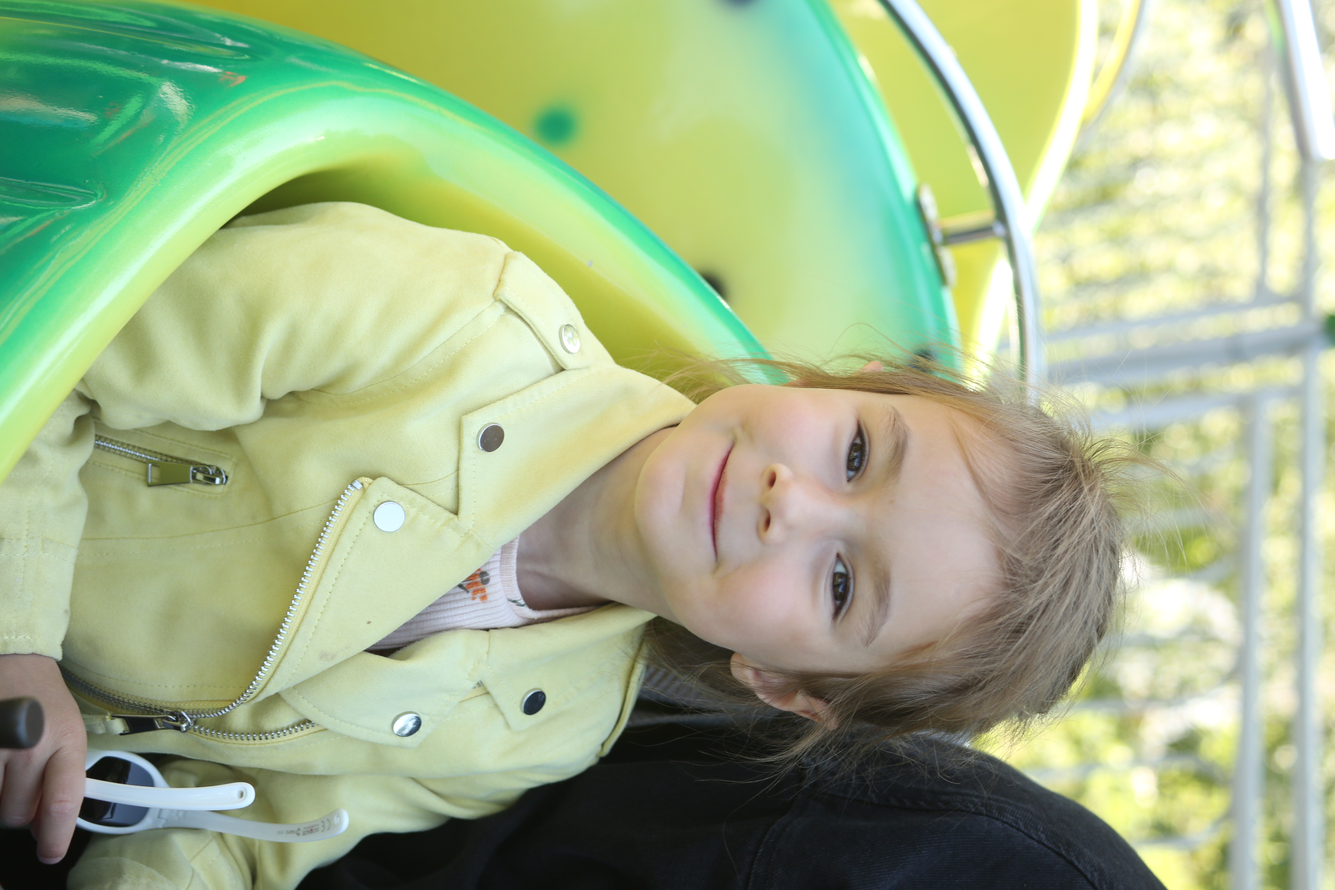
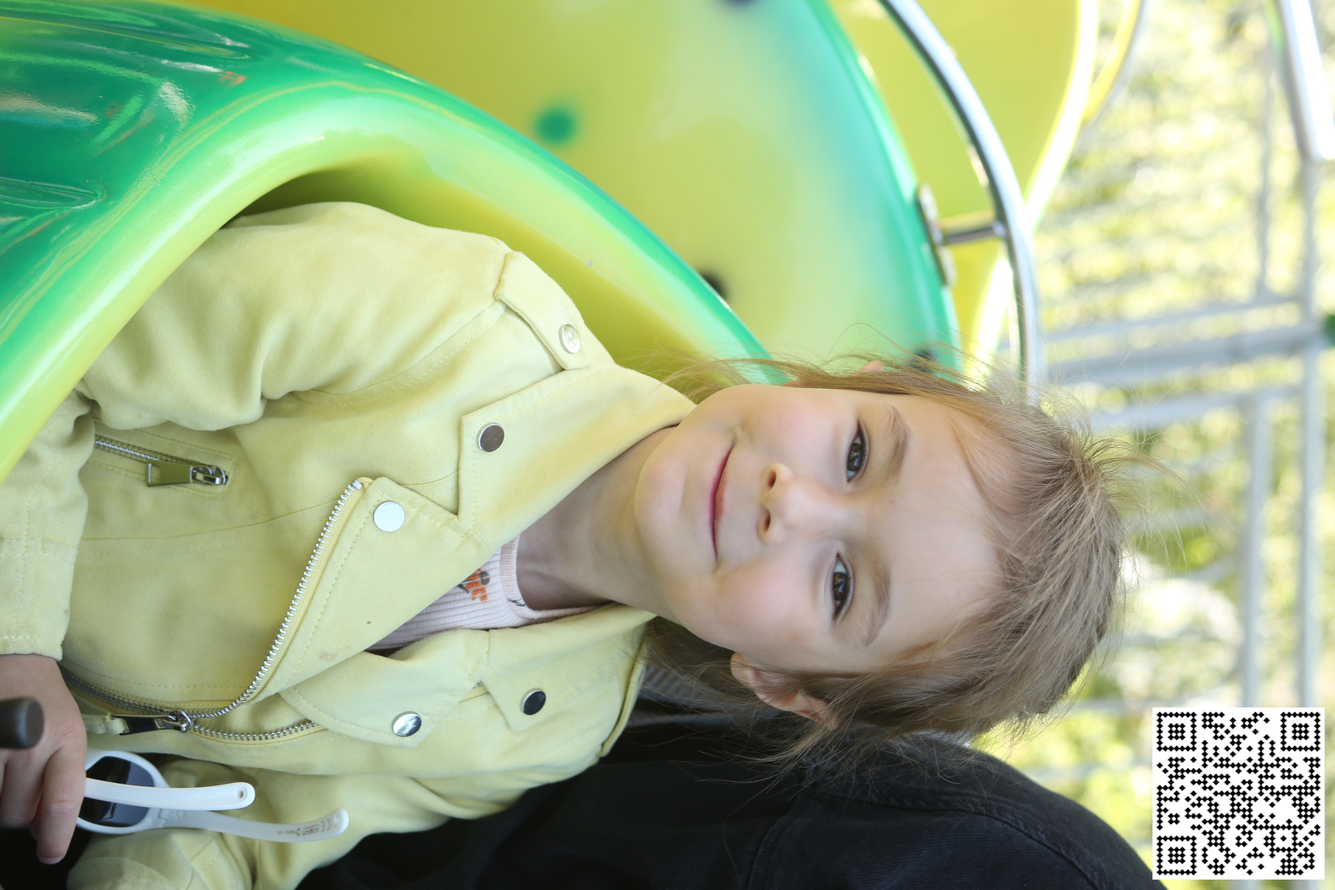
folder

Changed region(s): [[0.8438, 0.7812, 1.0, 1.0]]

diff --git a/source/Application.cpp b/source/Application.cpp
@@ -108,6 +108,38 @@ PrintUsage ( ){
 /*    }*/
 /*}*/
 
+/*void Application::Run() {*/
+/*    QRImageProcessor qr_image_processor;*/
+/**/
+/*    if (argc_ == 4) {*/
+/*        ProcessUserRequest();*/
+/*    } else {*/
+/*        static FileCopying file_copy(*/
+/*            FromSourceTag{}, "./resource/",*/
+/*            ToDestinationTag{}, "./resource/to/"*/
+/*        );*/
+/**/
+/*        const int wait_second = 5;*/
+/*        static FileWatcher watcher(file_copy, wait_second); // Делаем статическим*/
+/**/
+/*        // Запускаем отслеживание в отдельном потоке*/
+/*        std::thread watcher_thread([]() {*/
+/*            watcher.Start(); // Бесконечный цикл внутри*/
+/*        });*/
+/**/
+/*        // Обрабатываем существующие файлы*/
+/*        qr_image_processor.Process("./resource/to");*/
+/**/
+/*        // Оставляем основной поток активным*/
+/*        while (true) {*/
+/*            std::this_thread::sleep_for(std::chrono::seconds(1));*/
+/*        }*/
+/**/
+/*        watcher_thread.join(); // Необязательно, но для корректного завершения*/
+/*    }*/
+/*}*/
+
+
 void Application::Run() {
     QRImageProcessor qr_image_processor;
 
@@ -120,14 +152,14 @@ void Application::Run() {
         );
 
         const int wait_second = 5;
-        static FileWatcher watcher(file_copy, wait_second); // Делаем статическим
+        static FileWatcher watcher(file_copy, wait_second); 
 
         // Запускаем отслеживание в отдельном потоке
         std::thread watcher_thread([]() {
             watcher.Start(); // Бесконечный цикл внутри
         });
 
-        // Обрабатываем существующие файлы
+        // Обрабатываем существующие файлы (НАКЛАДЫВАЕМ QR)
         qr_image_processor.Process("./resource/to");
 
         // Оставляем основной поток активным
@@ -135,6 +167,6 @@ void Application::Run() {
             std::this_thread::sleep_for(std::chrono::seconds(1));
         }
 
-        watcher_thread.join(); // Необязательно, но для корректного завершения
+        watcher_thread.join(); 
     }
 }
